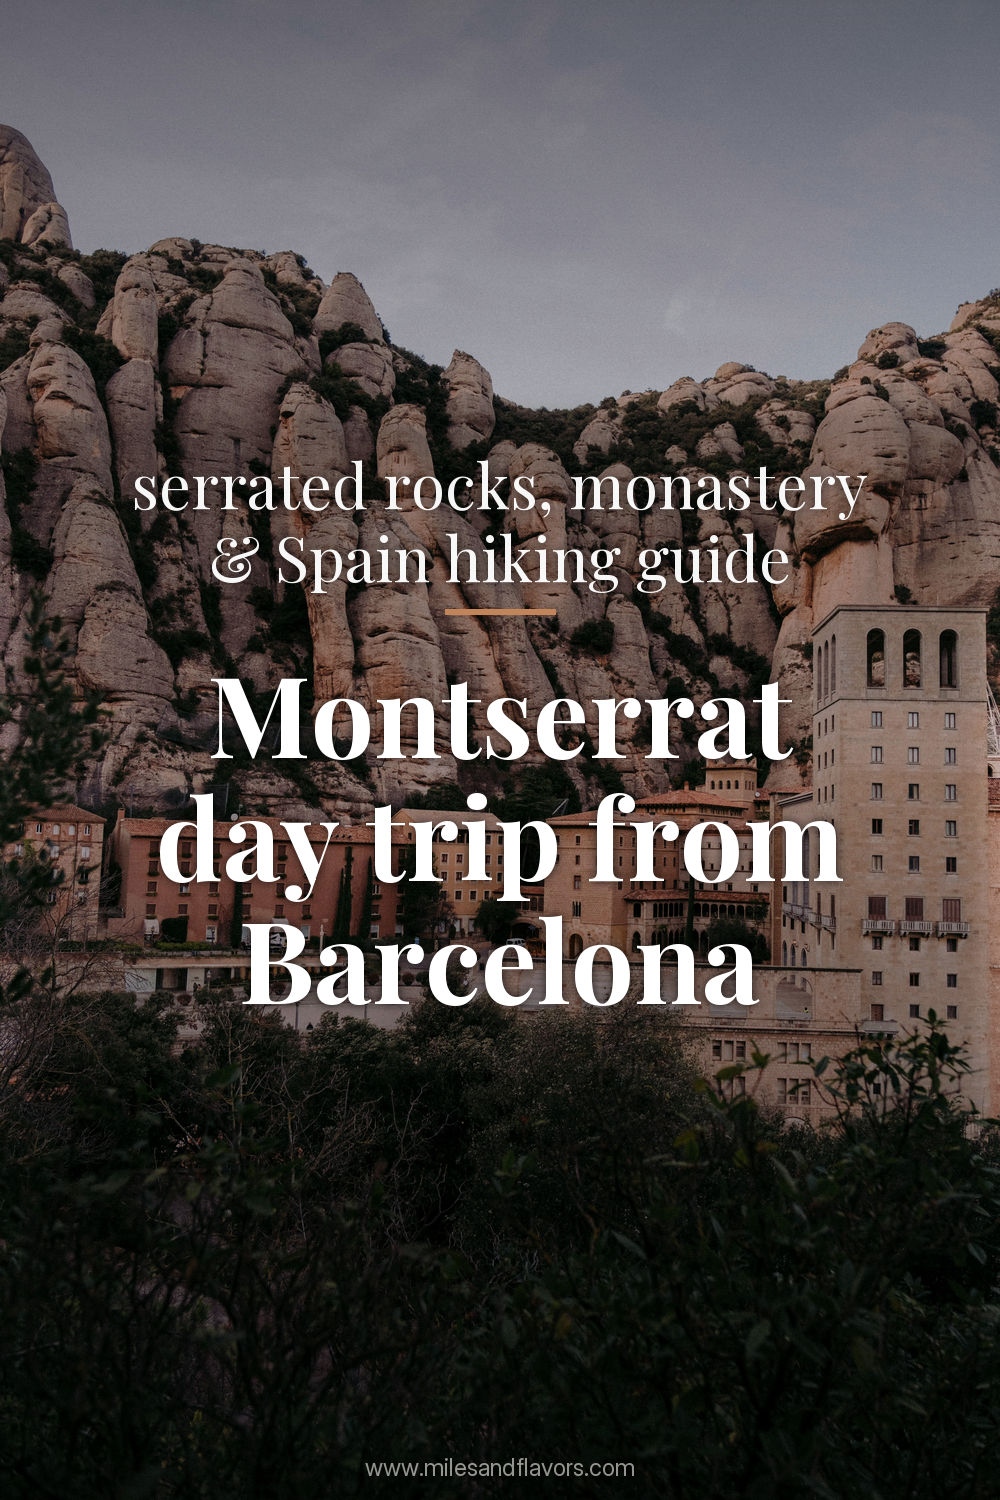
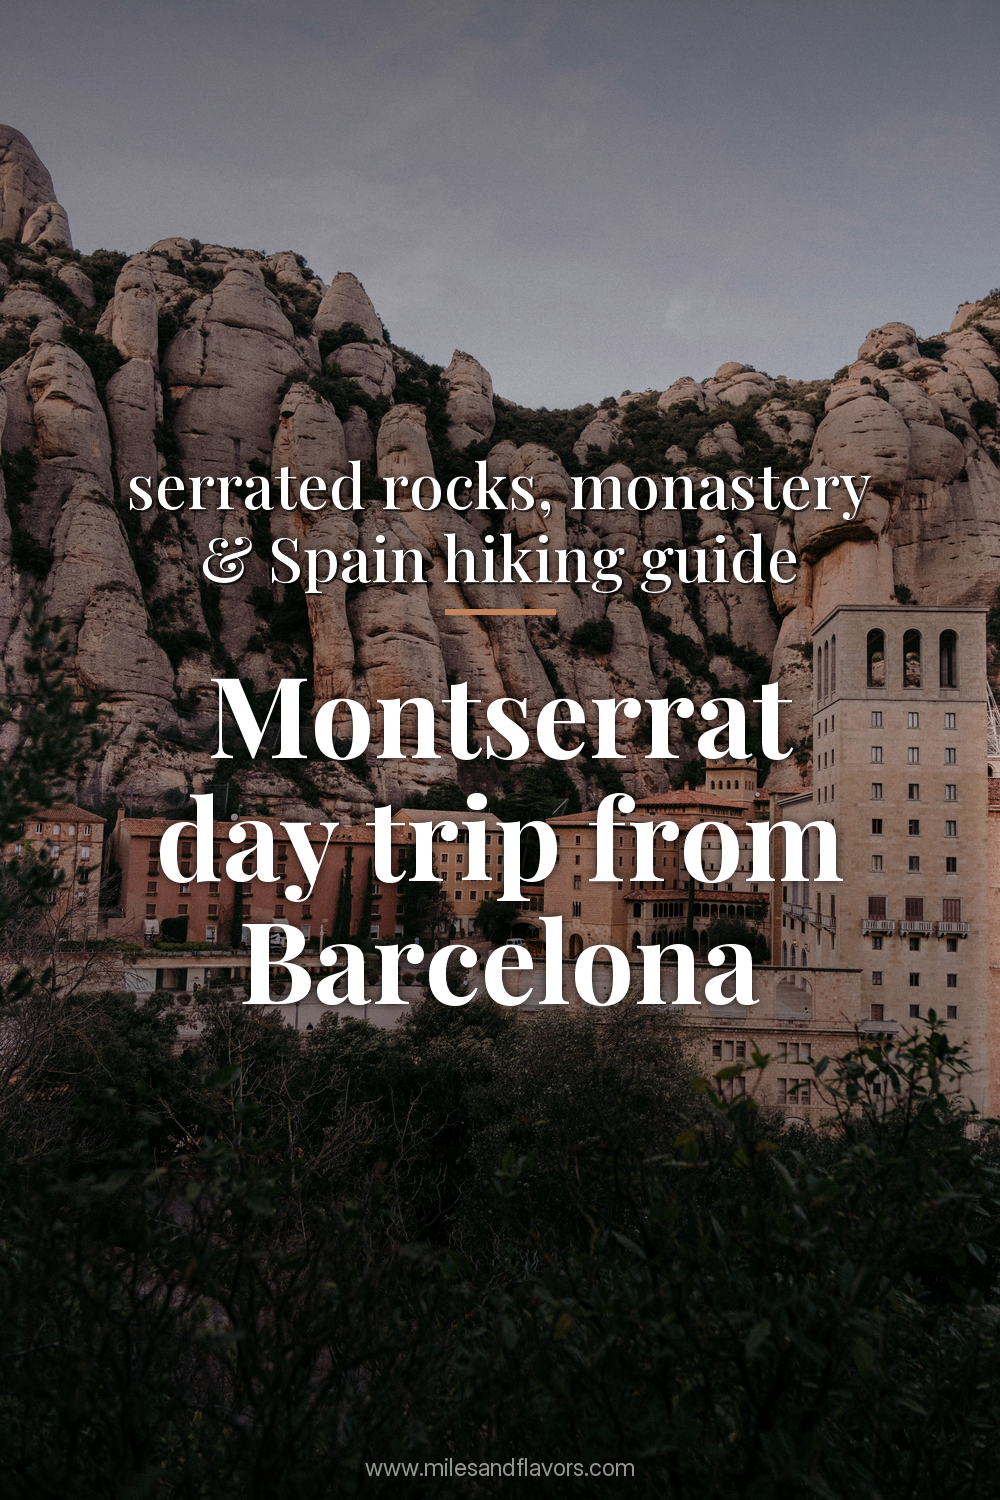
re-render 07.11-07.13 (21 pin): zone + contrast fixes
- fix render.py: top zone override now works (was always falling to bottom)
- pins.csv: 9 template update (times-square middle, bcn-1day middle,
  free-chicago middle, nyc-hidden-gems top, brooklyn dark,
  25-best-nyc top-dark, bcn-couples middle,
  bcn-bucket bottom, chicago-firsttimer top)
- new input_images/best-things-to-do-in-chicago/ folder for 07.13 01:00 pin

Changed region(s): [[0.124, 0.3067, 0.868, 0.3987]]

diff --git a/render.py b/render.py
@@ -358,7 +358,7 @@ def render_one(r, col):
     zone_override, overlay_alpha, brightness = parse_template(template)
 
     photos = [load(files[start])]
-    effective_zone = "middle" if zone_override == "middle" else "bottom"
+    effective_zone = zone_override if zone_override else "bottom"
     img = render_hybrid_pin(bold, light, photos, zone_override=effective_zone, overlay_alpha=overlay_alpha, brightness=brightness)
     datum = r[col["Datum"]].strip() if "Datum" in col else ""
     ido   = r[col["Idopont"]].strip().replace(":", "-") if "Idopont" in col else ""
